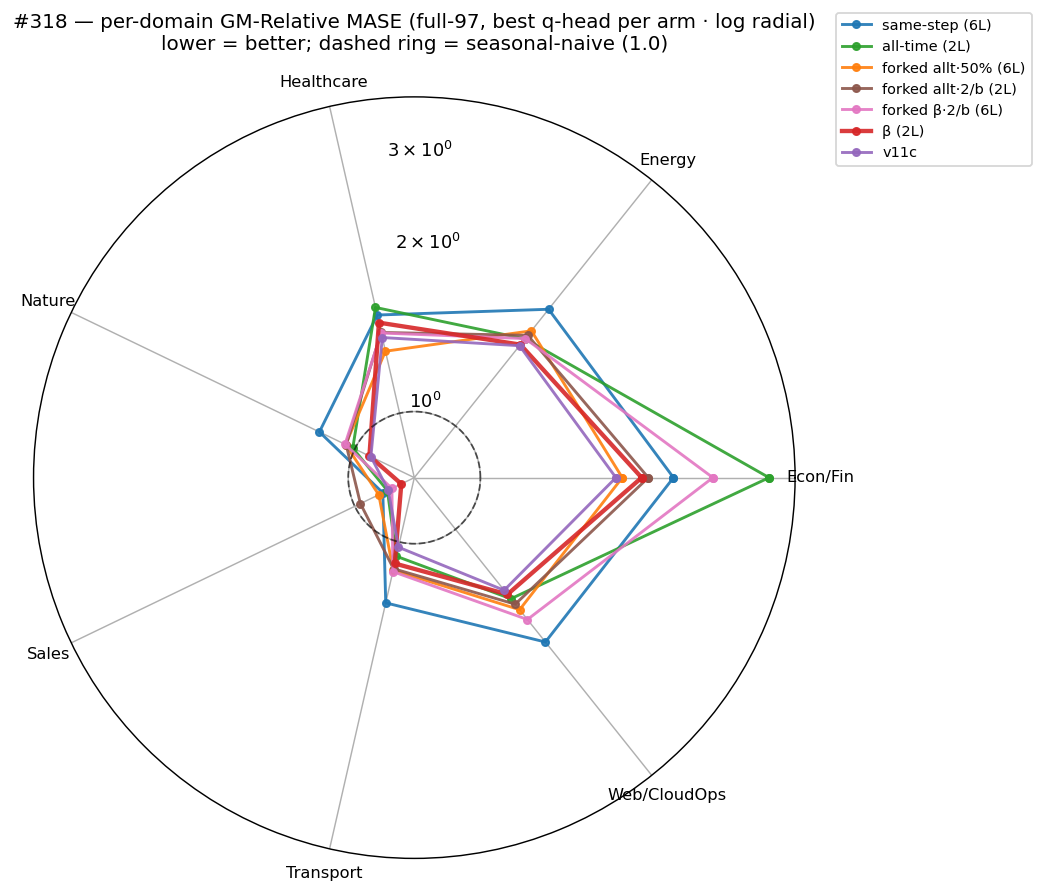
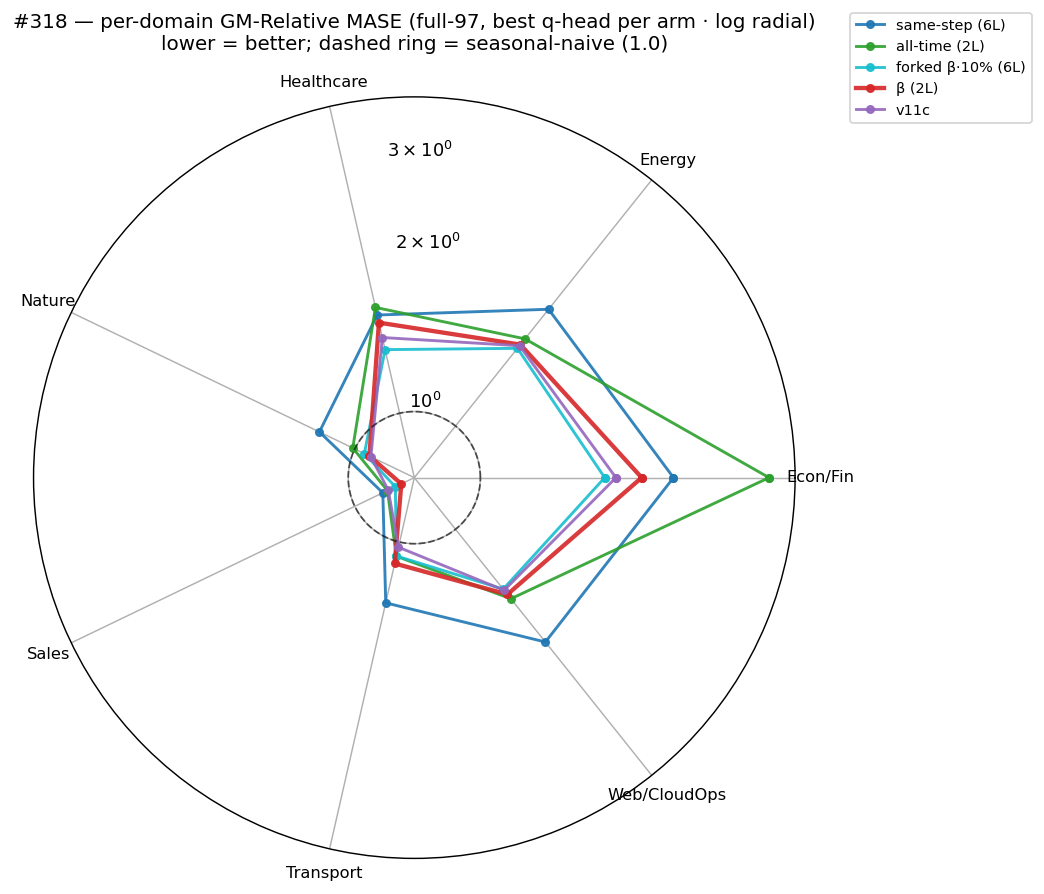
docs(#318): address final checklist — radar incl. β·10%; hedge + ≈v11c nits
Checklist verified all numbers/Δ/standard correct; fixes applied: (1+2) per-domain
radar now includes the winning arm forked β·10% (6L), curated to the headline
5-arm comparison (dropped the 3 intermediate forked arms for legibility) — β·10%
tracks β/v11c on the inner ring, gain is broad; (3) "6L = v11c" → "≈ v11c" (edges
by 0.003, within noise); (4) single-seed hedge reordered to end on the caveat.

diff --git a/experiments/2026-05-23_xseries_hh/scripts/plots.py b/experiments/2026-05-23_xseries_hh/scripts/plots.py
@@ -300,9 +300,7 @@ def plot_perdomain():
     # the legend. We never compute an eval here — just plot what the pipeline has.
     arms = [("same-step", C_XSHH, {h: f"{RES}/gift_eval_full_xshh_50k_{h}/summary.txt" for h in ("2L", "6L")}),
             ("all-time", C_ALLT, {h: f"{RES}/gift_eval_full_xshh_allt_50k_{h}/summary.txt" for h in ("2L", "6L")}),
-            ("forked allt·50%", C_FORK, {h: f"{RES}/gift_eval_full_xshh_allt_forked_50k_{h}/summary.txt" for h in ("2L", "6L")}),
-            ("forked allt·2/b", C_FORK2, {h: f"{RES}/gift_eval_full_xshh_allt_forked2_50k_{h}/summary.txt" for h in ("2L", "6L")}),
-            ("forked β·2/b", C_BFORK, {h: f"{RES}/gift_eval_full_beta_forked2_50k_{h}/summary.txt" for h in ("2L", "6L")}),
+            ("forked β·10%", C_BFORK10, {h: f"{RES}/gift_eval_full_beta_forked10pct_50k_{h}/summary.txt" for h in ("2L", "6L")}),
             ("β", C_BETA, {"2L": f"{BETA_DIR}/results/gift_eval_full_bb_beta_50k/summary.txt",
                            "6L": f"{RES}/gift_eval_full_beta_50k_6L/summary.txt"}),
             ("v11c", C_V11C, {"2L": f"{V11C}/summary.txt"})]

diff --git a/experiments/2026-05-23_xseries_hh/RESULTS.md b/experiments/2026-05-23_xseries_hh/RESULTS.md
@@ -9,9 +9,9 @@ same-step, all-time) **hurts** — +22% / +6.6% vs β (2L). Through the **data**
 champion (1.292)** at 6L (the first arm here to reach it). The same 10% on the
 **all-time** loss instead *hurts* (2L 1.6130), and at **0.8%** the fork is
 neutral-to-worse (the 50%-mix 6L "win", 1.4065, was a synthetic-fraction confound)
-— so the gain is specific to **β + ≈10% fork**. *Single seed* — a second seed
-should confirm before it's firm, but β·10% is the first arm here to reach
-v11c-level transfer.
+— so the gain is specific to **β + ≈10% fork**. β·10% is the first arm here to
+reach v11c-level transfer, but on a **single seed**, with the 6L-vs-v11c margin
+(0.003) inside the ±0.02 noise — a second seed is needed before it's firm.
 
 ![full-97 GM summary](plots/gm_summary.png)
 *GM-Relative MASE, lower = better; 1.0 = seasonal-naive. Every arm × {2L, 6L}; the
@@ -43,7 +43,7 @@ subset. Single seed per cell (line spread ≈ ±0.02, #307).*
   what different series share at a step is forecastably useful, not a free code.
 - **Data-side (forked): the gain is specific to β + ≈10% injection.** Sweeping the
   forked fraction is non-monotonic and loss-dependent. On **β** it peaks at 10%:
-  0% (β) 1.3272 → 0.8% 1.5302 → **10% 1.3030 (2L) / 1.2889 (6L = v11c)** — the best
+  0% (β) 1.3272 → 0.8% 1.5302 → **10% 1.3030 (2L) / 1.2889 (6L ≈ v11c)** — the best
   arm here. On the **all-time** loss the fork only hurts at every fraction
   (0.8% 1.4049/1.5100, 10% 1.6130/1.5304, 50% 1.6366/1.4065); the 50%·6L 1.4065 that
   first looked like a win was a synthetic-data-fraction confound (its 0.8% isolation
@@ -54,9 +54,10 @@ subset. Single seed per cell (line spread ≈ ±0.02, #307).*
 
 ![per-domain radar](plots/perdomain.png)
 *Log radial; dashed ring = seasonal-naive (1.0); innermost = best. Each arm at its
-best q-head (lower full-97; head shown in the legend). β (2L) and v11c are
-tightest; the denial arms bulge outward (same-step 6L worst, no seasonal
-signature); forked allt·50% (6L) sits closest to β but no denial arm reaches it.*
+best q-head (legend); curated to the headline comparison. The loss-side arms
+(same-step 6L, all-time 2L) bulge outward — worse than β across domains, no
+seasonal signature — while the data-side winner **forked β·10% (6L)** tracks β and
+v11c on the inner ring.*
 
 ### Training dynamics
 
